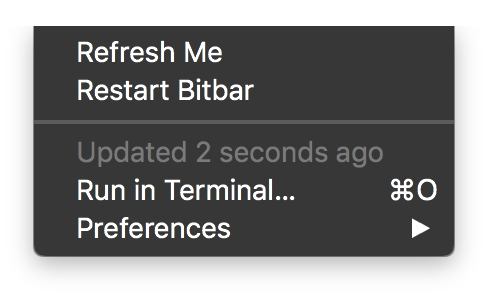
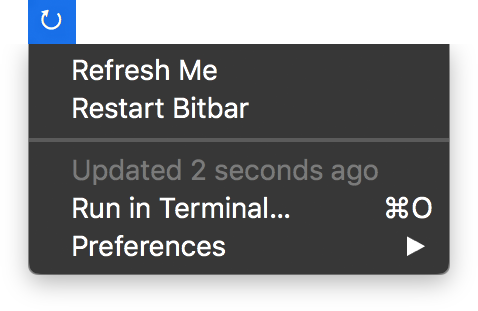
Images updated

Changed region(s): [[0.0586, 0.0, 0.9665, 0.906]]

diff --git a/README.md b/README.md
@@ -1,9 +1,10 @@
 # Plugins for [BitBar](https://getbitbar.com/)
 ## Tutorial: Refresh
+![refresh-preview](https://raw.githubusercontent.com/KarlPiper/Plugins-for-Bitbar/master/images/refresh.png)
 - Simple example of refreshing just your plugin, rather than all enabled plugins.
 - Example to restart BitBar entirely, using applescript.
 ## Appearance Options
-![appearance-options preview](https://raw.githubusercontent.com/KarlPiper/Bitbar-Plugins/master/appearance-options/images/appearance-options.png)
+![appearance-options preview](https://raw.githubusercontent.com/KarlPiper/Plugins-for-Bitbar/master/images/appearance-options.png)
 ### Features
 - Set random desktop image
   - Toggle image rotation
